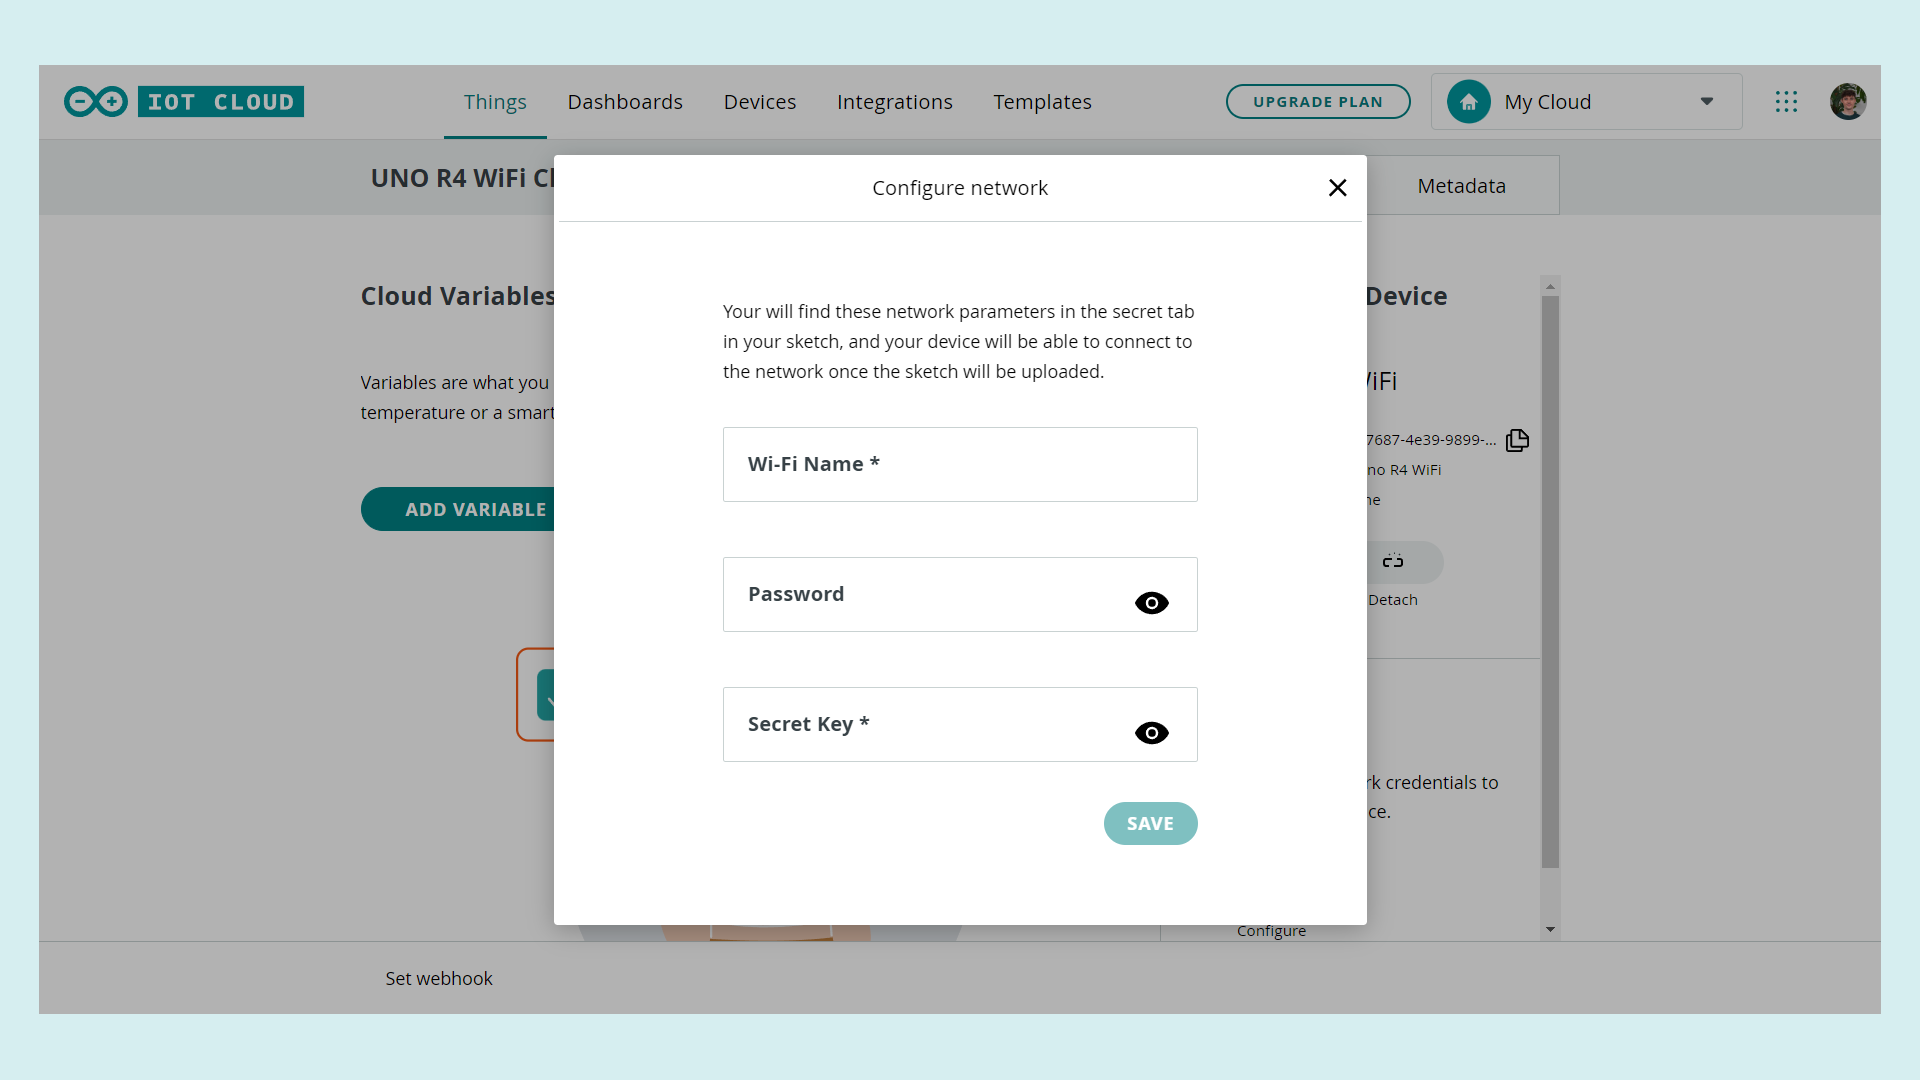
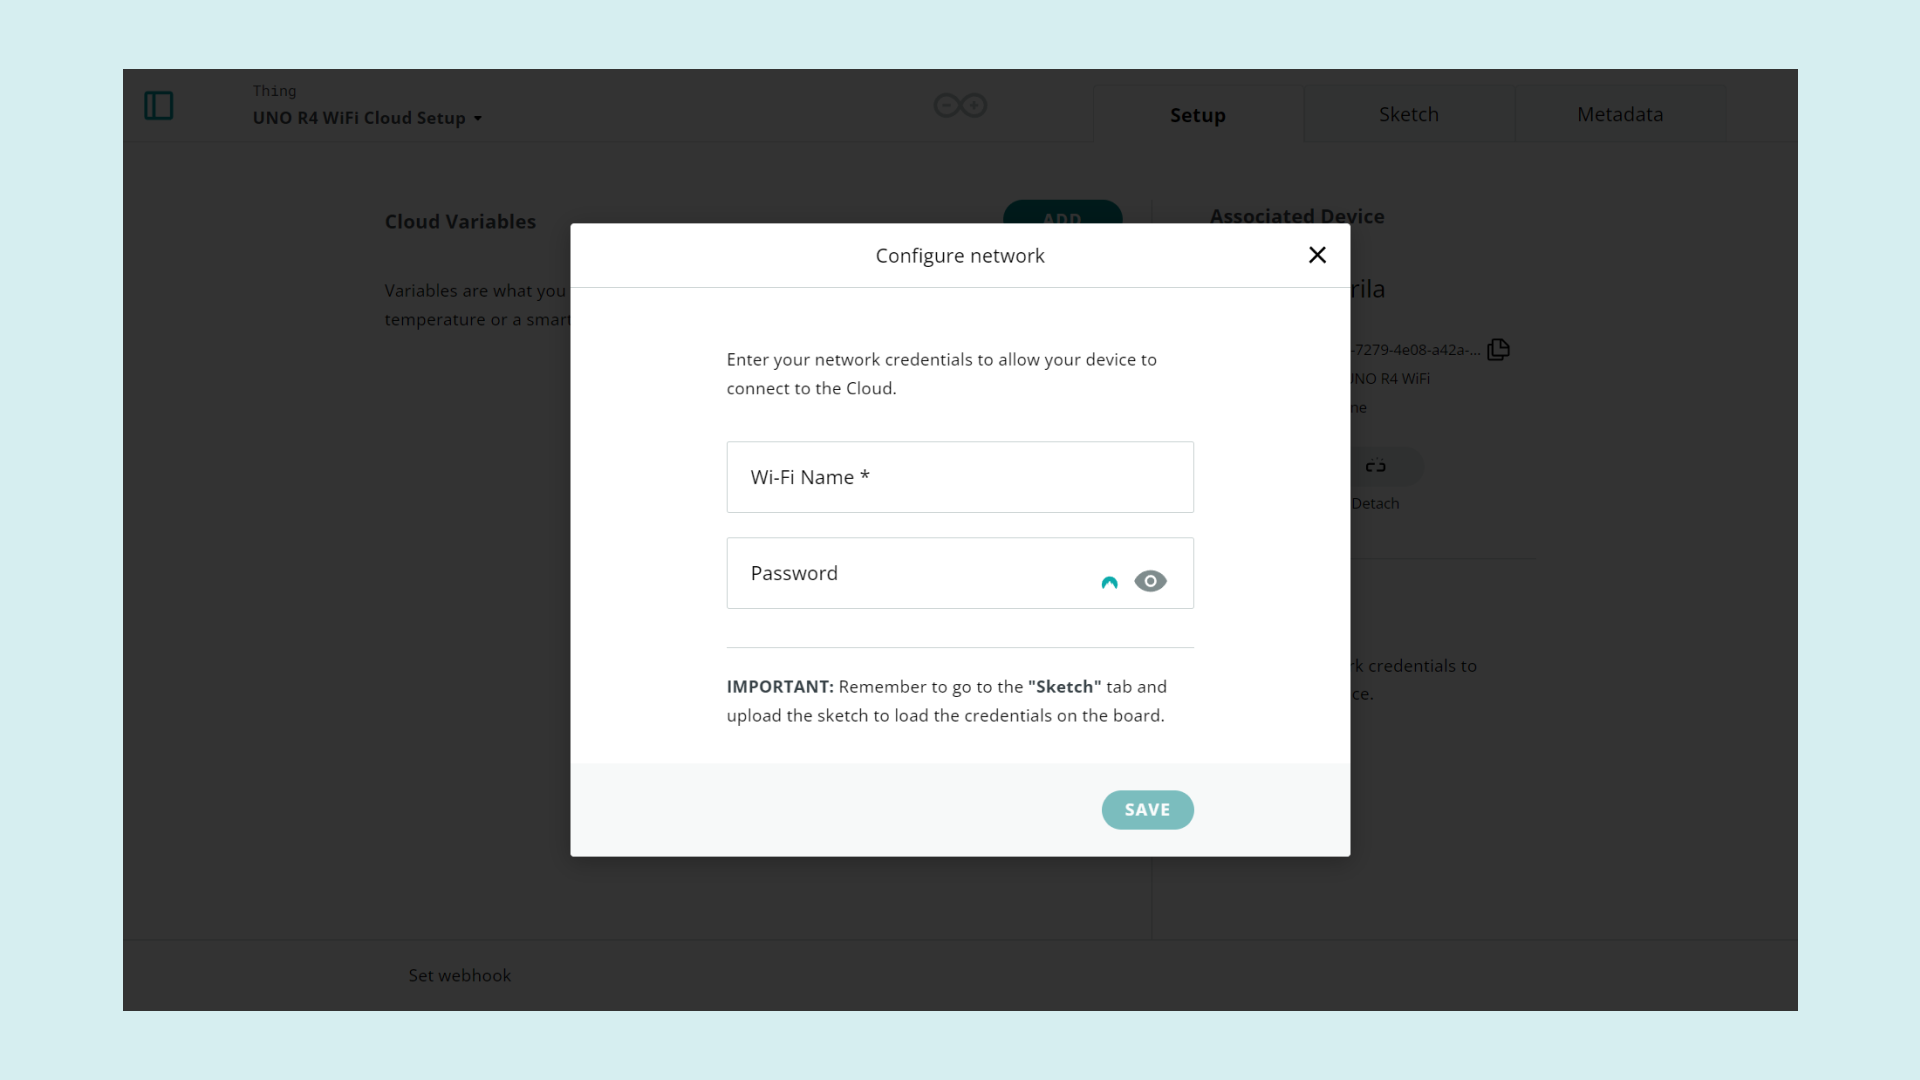
update cloud setup docs

diff --git a/content/hardware/02.hero/boards/uno-r4-wifi/tutorials/cloud-setup/cloud-setup.md b/content/hardware/02.hero/boards/uno-r4-wifi/tutorials/cloud-setup/cloud-setup.md
@@ -1,13 +1,13 @@
 ---
-title: Arduino UNO R4 WiFi IoT Cloud Setup Guide
+title: Arduino UNO R4 WiFi Cloud Setup Guide
 description: A step-by-step guide on how to set up the UNO R4 WiFi with the Arduino Cloud.
 hardware:
   - hardware/02.hero/boards/uno-r4-wifi
 author: Hannes Siebeneicher
-tags: [UNO R4 WiFi, IoT Cloud]
+tags: [UNO R4 WiFi, Cloud]
 ---
 
-The Arduino UNO R4 WiFi comes with a built-in ESP32-S3 module that enables Wi-Fi® functionality. This also means you can use it with Arduino's IoT Cloud!
+The Arduino UNO R4 WiFi comes with a built-in ESP32-S3 module that enables Wi-Fi® functionality. This also means you can use it with the Arduino Cloud!
 
 This article shows you how to set up your board and connect it to the Cloud allowing you to upload code over the air, create dashboards to monitor your data and control your Arduino remotely.
 
@@ -24,7 +24,7 @@ To use the Arduino Cloud you will need to register and set up a **free** account
 
 ### Configure Your Board
 
-After you have set up your account you can connect your board to your pc. Inside the IoT Cloud Things overview click on **Create**.
+After you have set up your account you can connect your board to your pc. Inside the Cloud Things overview click on **Create**.
 
 ![Create new Thing](./assets/thingsOverview.png)
 
@@ -49,28 +49,20 @@ When the installation is finished you will see a short loading screen and once y
 ![Configure Device](./assets/configureDevice.png)
 
 
-Choose a name for your board and press next. The next parts need a little bit more attention. Because the UNO R4 WiFi doesn't have a crypto chip it needs a **secret key** that works as an identifier, guaranteeing a safe connection. That secret key is shown to you in the next step and you can either download a pdf containing all the information you need to save or copy and paste the secret key and the device ID someplace where you won't lose it.
+Choose a name for your board and press next.
 
-***Note: If you don't save the secret key you will not be able to continue with the next step so make sure you document and save it! In case you lose it, start over and you will receive a new key.***
+![Name your Arduino Board](./assets/naming.png)
 
-![Secret Key](./assets/secretKey.png)
-
-To use the UNO R4 WiFi with the IoT Cloud you may need to update the firmware of the ESP32 module. Luckily we have simplified the process of flashing new firmware to the module. 
-
-You will be prompted with a popup when it's time. Follow the instructions depending on what operating system you are using. 
-
-![Update Board](./assets/updateDevice.png)
-
-After completing the steps in the popup you should be greeted by a prompt telling you that you can now use the board with the IoT Cloud.
+After completing the steps in the popup you should be greeted by a prompt telling you that you can now use the board with the Arduino Cloud.
 
 ![Finish set up](./assets/finishSetUp.png)
 
 ### Network Configuration
 
-We are almost done with the setup. In the following step, you will need the **secret key** previously saved. Under Network click on **configure** and add your Wi-Fi credentials as well as your secret key.
+We are almost done with the setup. Under Network click on **configure** and add your Wi-Fi credentials.
 
 ![Network Configuration](./assets/network.png)
 
 ## Summary
 
-You have now successfully set up your UNO R4 WiFi to work with the IoT Cloud. To get started with your first IoT project, check out our [Getting Started With the Arduino Cloud](arduino-cloud/getting-started/iot-cloud-getting-started) guide.
+You have now successfully set up your UNO R4 WiFi to work with the Arduino Cloud. To get started with your first cloud project, check out our [Getting Started With the Arduino Cloud](arduino-cloud/getting-started/iot-cloud-getting-started) guide.
